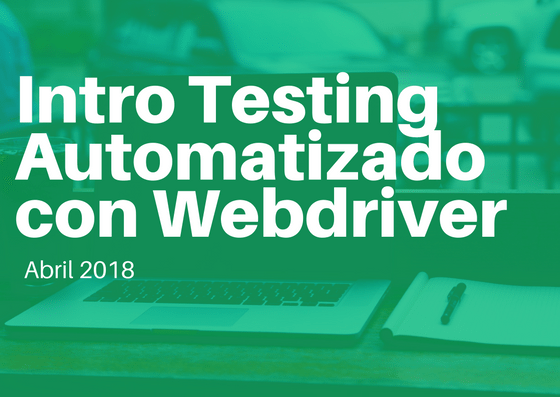
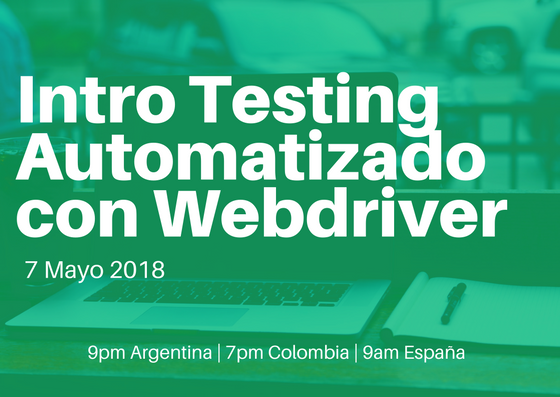
dates update

diff --git a/introduccionTestingAutomatizado.html b/introduccionTestingAutomatizado.html
@@ -98,7 +98,7 @@
 				<br>Por &uacute;ltimo nos centraremos en WebDriver para poder aplicar lo aprendido  y poder realizar nuestros primeros tests en Java y Python!</p>
                 <hr class="bottom-line">
             </div>
-            <div class="feature-info">
+            <div class="feature-info">	
                 <div class="fea">
                     <div class="col-md-4">
                         <div class="heading pull-right">
@@ -288,10 +288,10 @@
                     <br>No te confies que el tiempo vuela y anotate!
 					<br> Fechas: 
 					<ul>
-					<li>Lunes 9 de Abril M&oacute;dulo 1 (9pm Argentina | 7pm Colombia | 9am Espa&ntildea)</li>
-					<li>Mi&eacute;rcoles 11 de Abril M&oacute;dulo 2 (9pm Argentina | 7pm Colombia | 9am Espa&ntildea)</li>
-					<li>Viernes 13 de Abril M&oacute;dulo 3 (9pm Argentina | 7pm Colombia | 9am Espa&ntildea)</li>
-					<li>Lunes 16 de Abril M&oacute;dulo 4 (9pm Argentina | 7pm Colombia | 9am Espa&ntildea)</li>
+					<li>Lunes 7 de Mayo M&oacute;dulo 1 (9pm Argentina | 7pm Colombia | 9am Espa&ntildea)</li>
+					<li>Mi&eacute;rcoles 9 de Mayo M&oacute;dulo 2 (9pm Argentina | 7pm Colombia | 9am Espa&ntildea)</li>
+					<li>Viernes 11 de Mayo M&oacute;dulo 3 (9pm Argentina | 7pm Colombia | 9am Espa&ntildea)</li>
+					<li>Lunes 14 de Mayo M&oacute;dulo 4 (9pm Argentina | 7pm Colombia | 9am Espa&ntildea)</li>
 					</ul></p>
                 <hr class="bottom-line">
             </div>
@@ -519,7 +519,7 @@
 <script>
                                         $(document).ready(function() {
                                             $('#countdown9').ClassyCountdown({
-                                                end: '1523307600',
+                                                end: '1525726800',
                                                 now: $.now()/1000,
                                                 labels: true,
                                                 style: {
